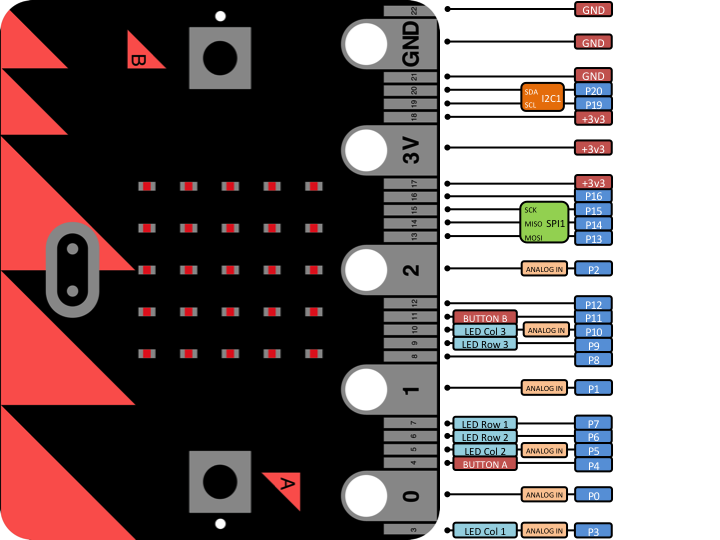
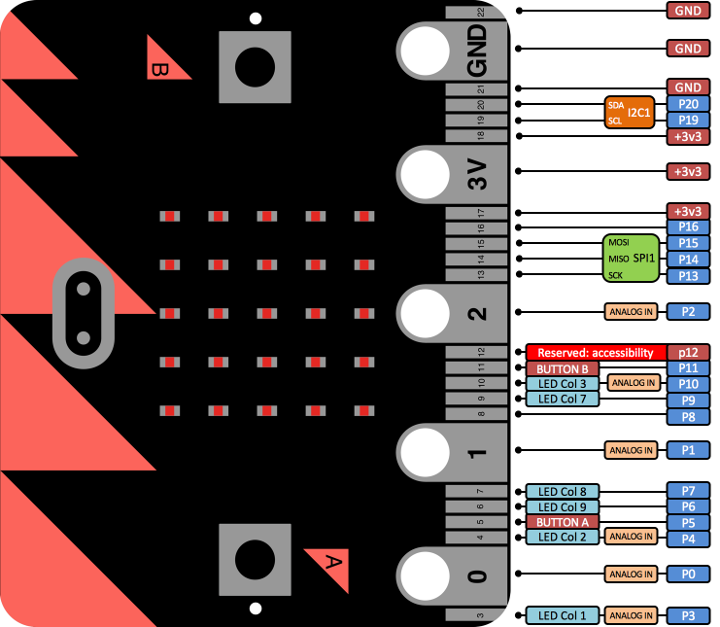
Fix pins documentation (Button A was wrongly mapped)

diff --git a/docs/pin.rst b/docs/pin.rst
@@ -27,9 +27,9 @@ module:``microbit.pin0`` - ``microbit.pin20``.
 +-----+---------+----------+
 |  3  | Analog  | Column 1 |
 +-----+---------+----------+
-|  4  | Digital | Button A |
+|  4  | Analog  | Column 2 |
 +-----+---------+----------+
-|  5  | Analog  | Column 2 |
+|  5  | Digital | Button A |
 +-----+---------+----------+
 |  6  | Digital | Row 2    |
 +-----+---------+----------+
